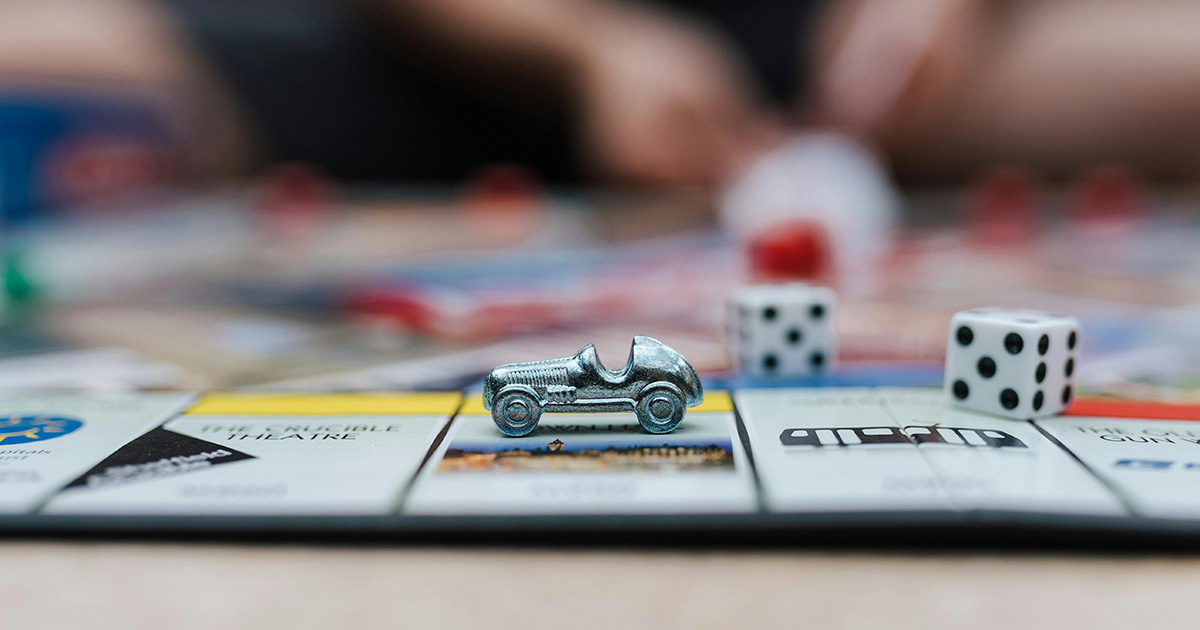
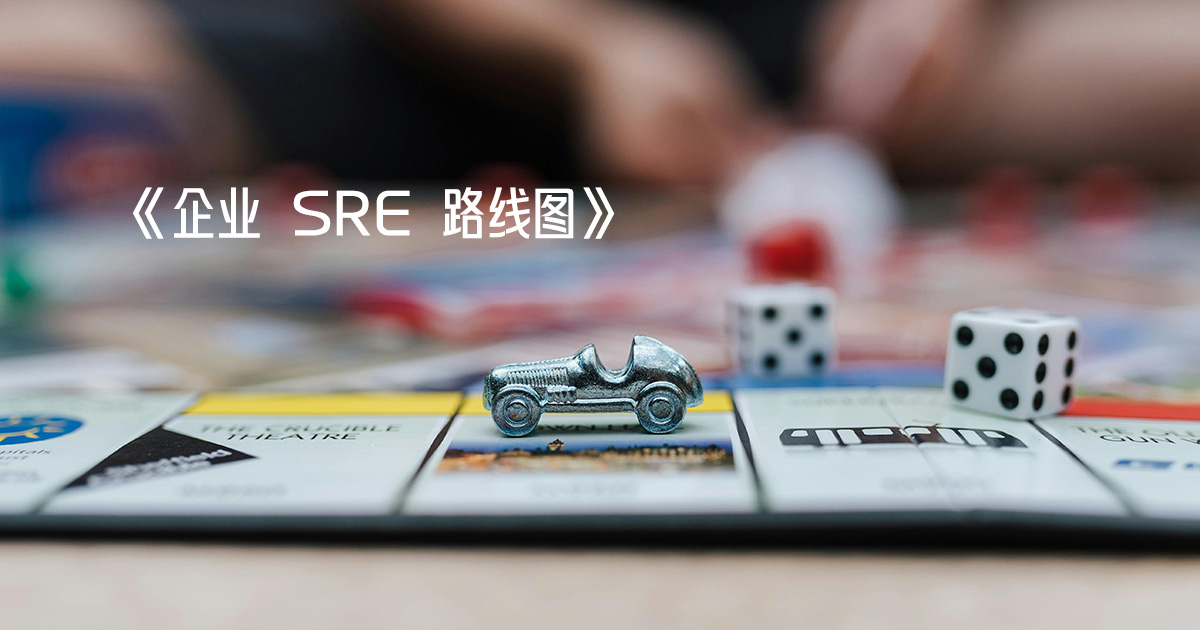
add chapter 1

Changed region(s): [[0.37, 0.3016, 0.5242, 0.3921], [0.0925, 0.3016, 0.2158, 0.3921], [0.2467, 0.3016, 0.3392, 0.3921]]

diff --git a/content/post/google-sre-ent-roadmap-chapter1/index.zh-cn.md b/content/post/google-sre-ent-roadmap-chapter1/index.zh-cn.md
@@ -1,0 +1,57 @@
+---
+title: "《企业 SRE 路线图》第一章：初探企业 SRE "
+date: 2024-04-30T21:41:05+08:00
+description:  Google SRE 整理了一些建议，希望能帮助到更多企业。通过评估企业现有的环境、设定合理的预期，并确保企业朝着正确的方向迈出正确的步伐，企业可以从评估 SRE的原则和实践，从评估SRE在组织中的运作方式开始。
+slug: google-sre-ent-roadmap-chapter1
+image: pexels-anete-lusina-4792380.jpg
+categories:
+    - SRE
+tags:
+    - Google
+    - 白皮书
+comments: true
+toc: true
+
+---
+
+>译者：刘征
+
+将 SRE 导入当前的各种传统企业，是一项看似可能艰巨的工作，因此 Google SRE 整理了一些建议，希望能帮助到更多企业。通过评估企业现有的环境、设定合理的预期，并确保企业朝着正确的方向迈出正确的步伐，企业可以从评估 SRE的原则和实践，从评估SRE在组织中的运作方式开始。
+
+## 演进优于革命
+
+企业的一个显著特点是：会始终拥有以前的 IT/管理信息系统（MIS）方法和原则的历史，Google SRE将详细讨论一些常见的方法。无论当前状态如何，Google SRE发现在采用 SRE 时，选择通过演进和补充现有框架的方式，而不是直接与其对抗会取得最大成功。此外，SRE 与其他任何技术的采用过程类似，都会受到历史遗留的影响（参见维基百科关于路径依赖的页面）。简而言之，这意味着：在像企业这样的复杂系统中，在不同地方应用相同的改变，也将产生出不一致而非收敛的结果。Google SRE将从一些成功的采用了不同的流行框架的示例开始讨论。
+
+## SRE 实践可与 ITSM 框架共存
+
+信息技术基础架构库（ITIL）是一组详细的 IT 活动实践，如 IT 服务管理（ITSM）。并非每个企业都使用 ITIL，但如果企业的相关组织在一定程度上采用过 ITIL，则应准备好 SRE 和 ITIL 实践之间会存在着重叠。此外，由于 ITIL 是一个框架，企业的定制化实施可能与库中的内容有很大差异。
+
+>关键点：ITIL 有五本核心书籍，用数千页的篇幅涵盖了：关于如何构建和运行 IT 服务的内容，其中的很多主题与可靠性无关，也有很多内容故意未被 SRE 涵盖。ITIL 是一个框架，而 SRE 是一组实践，因此它们肯定是兼容的，但是在翻译术语（例如，“warranty”，“utility” 等）时可能会遇到挑战。此外，SRE 在变更管理和服务的拥有权等领域有着明确的观点，因此即使结果是一致的，也要做好调整的准备。
+
+对于调和现存的一些常见 SRE 的反模式，可能也会比较有挑战。变更咨询委员会（CAB）是变更控制的常见模式。SRE 所秉持的持续交付的方式，意味着要让这个机构简化和战略化：企业可以在 Google 的 DevOps 研究和评估（DORA）的文章中，了解到更多有关简化变更审批的内容。类似地，对于网络运维中心（NOC，或者中国的 ECC）而言，则应该将其从事件驱动模型转变为更具前瞻性的方式，重点是对其进行自动化和赋能。在这两种情况下，重点是演进当前的运作模式，而非立即替换它们。
+
+## DevOps/敏捷/精益
+
+DevOps 有多种定义。为了简单起见，Google SRE 假定它包括其他方法的相关部分，如敏捷（SAFe、DAD 和 LeSS）和精益（Six Sigma、看板）。Google 的 DORA 研究表明，SRE 和 DevOps 是互补的，因此如果企业的组织在一定程度上采用了 DevOps，则通常会有所裨益。与 ITIL 一样，我们要预见到 SRE 和 DevOps 实践存在着一些重叠，并且企业的定制化实施可能与《DevOps Handbook - DevOps 实践指南》存在着广泛的差异。Google SRE将在后面更详细地介绍特定的 SRE  实践，但 SRE 与 DevOps 相关最大的许多能力（例如版本控制、同行评审等）也通常被视为采用 SRE 的先决条件。无论企业选择通过 DevOps 还是 SRE 倡议来构建这些能力，这些都由企业来决定，但为了确保采用 SRE 的成功，那些重要的 DevOps 能力仍然需要提前准备继续。
+
+>关键点：当企业在调和  DevOps  和  SRE  的差异时，倡议务实的原则；想要完成大规模演进变革的成功，还是要通过迭代和循序渐进的方式来实现。重要的是：需要把特定的工作活动拆解出来，并专注于对人员的赋能，而不是花费不必要的时间和精力来获取一个完美的“空架子”。
+
+尽管 DevOps 和 SRE 是互补的，但它们在一些领域还可能会令人难以调和。例如，企业可能已经决定将开发和运维报告层次结构替换为跨职能的 DevOps 团队。在这种情况下，重新引入像 SRE 这样的专门职能则需要进行认真的考虑。
+
+### 千里之行，始于足下
+
+无论您的企业正在使用着什么方法和框架，了解并诚实地对待企业今天的现状都很重要。正如《Google SRE 运维解密》 一书所言，“希望不是一种策略！” 如果企业认为：当前的企业环境中即没有任何缺失，也不存在任何改进的机会，那么企业应该问自己：为什么要采用 SRE。同样，企业现有的一些技术或员工的想法，在刚开始的时候，看起来也可能与企业的 SRE 愿景并不一致。在做出任何改变以前，花时间来了解这些也很重要。
+
+### 明确企业的期望和愿景
+
+接下来，企业了解自己期望的结果很重要。SRE 会包含许多技术和文化的组成部分，但它们都指向一个相同的目标，即：实现可靠性的目标。企业应该提前预计到：企业需要花费大量的时间和精力，来定义SRE 的技术和文化与现有框架的交互方式。只是简单地说“提高可靠性”是行不通的。同样，如果企业期望的结果与可靠性无关（例如：成本、速度），那么就需要准备额外的工作成本，来让SRE 实践与企业的整体愿景进行适配。
+
+### SRE 开始与人
+
+随着时间的推移，流程和技术会潮起潮落，而人员和实践则能够接受和适应它们。如果，企业是从培训和招聘开始的，那么企业可以不断的添加或删除技术和流程。而建立 SRE 能力则是一个渐进的过程；所以，不要试图通过简单的招聘来取得成功。将招聘看做是培训方式的一种加强版，而不是取代培训。记住，SRE 需要一种 “生机文化”（与病态和官僚的企业文化并列） 才能取得成功，所以确保这一点至关重要。
+
+### 拥抱自身的特殊性
+
+在企业的某个特定组织内采用 SRE，其实并没有一个标准化的最佳实践的做法。企业能成功的方式才是它唯一正确的方式。Google SRE 现在已经对很多组织的工作成果进行了大量的研究，知道了一些行之有效的方式，还有一些无效的做法；然而，企业必然还是会犯一些新颖的错误。将这些组织的经验视为真正的学习工具，将各种有效的改进循环融入你当前的企业的组织中。
+
+Feature picture ❤ Anete Lusina: <https://www.pexels.com/photo/miniature-toy-car-on-top-of-monopoly-board-game-4792380/>
